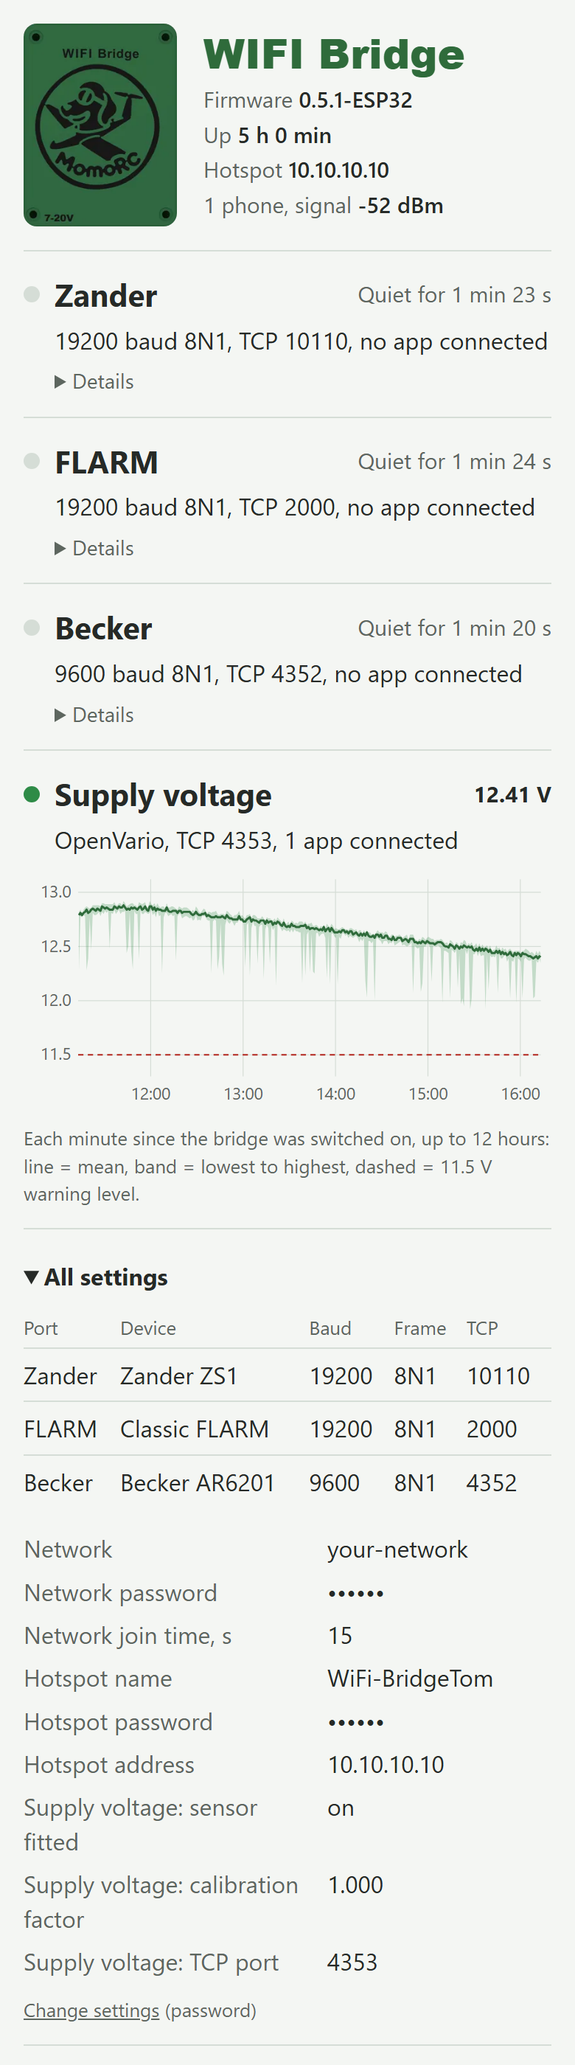
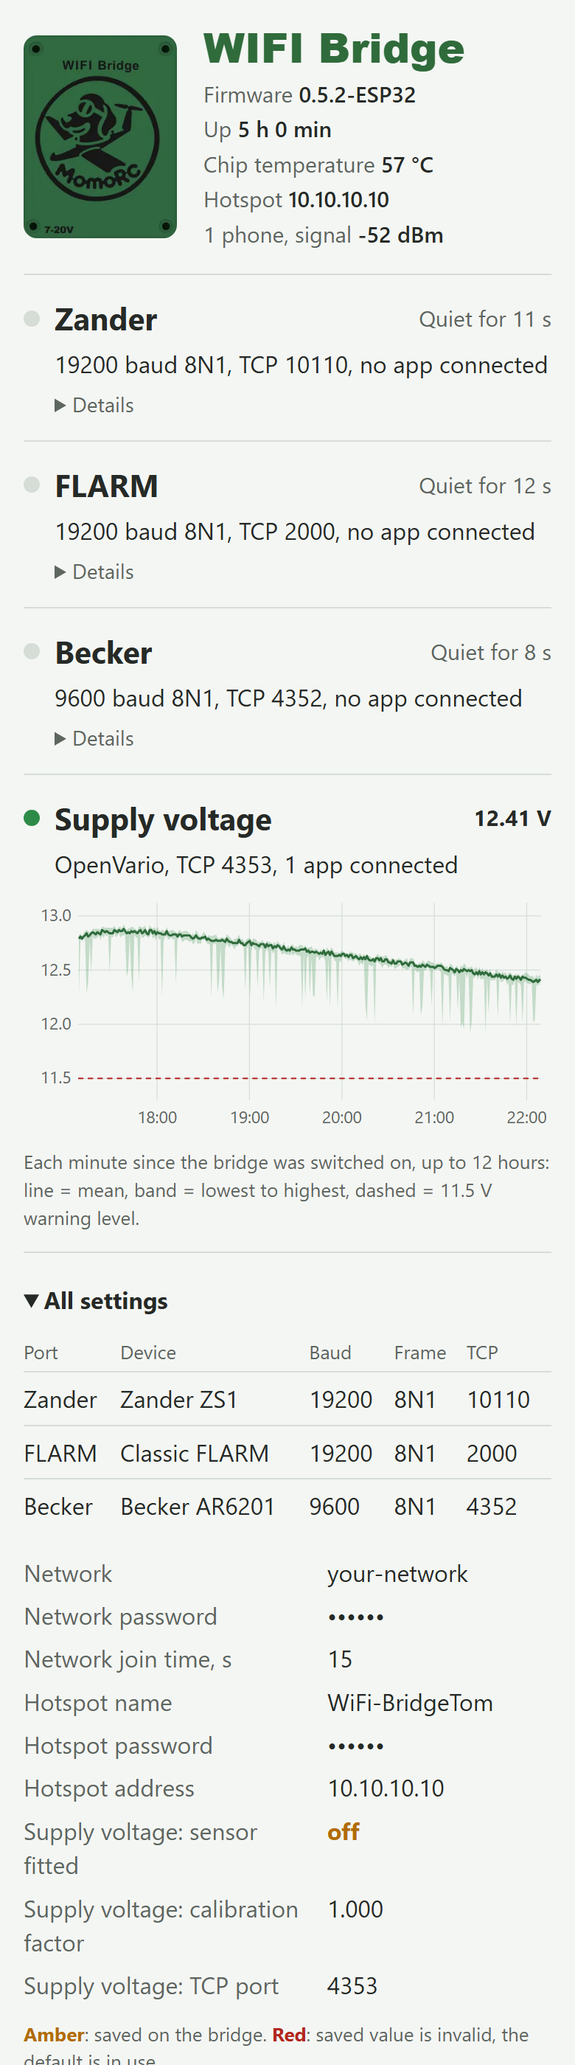
Show the ESP32 chip temperature on the status page and log (0.5.2)
Plan step 3e, approved by the owner. The status task reads the classic
ESP32's internal temperature sensor once per second and shows the mean
of the last 10 s on the status page header, in /api/status (chip_temp)
and in the web log. The log warns at 80 C for 60 s (provisional, to be
set from the heat check in open item 8) and reports Info below 75 C.
No shutdown: the bridge keeps forwarding at any temperature.

Docs: firmware README "Chip temperature" section, roadmap step 3e, heat
check bullet in open-items, sources S131 (Arduino-ESP32 core and ESP-IDF
evidence) and S132 (bench record). Screenshots regenerated with
tools/status_screenshot.py.

Verified: arduino-cli build OK (55 % flash, only the two known upstream
warnings); OTA upload to the standalone ESP32; readings 53-60 C on the
bench; log lines present; bridge_loop_test --radio-loop 4/4 pass.
Not tested: the wired bridge in the housing and the heat check itself.

diff --git a/firmware/bridge/chiptemp.h b/firmware/bridge/chiptemp.h
@@ -1,0 +1,102 @@
+// Project: ESP32 chip temperature (firmware plan step 3e). ESP32 only.
+//
+// Reads the internal temperature sensor once per second and shows the mean of the
+// last 10 s on the status page, in /api/status and in the web log. Nothing else
+// happens: a hot bridge keeps forwarding, because losing FLARM and radio data in
+// flight is worse than running warm.
+//
+// On the classic ESP32 the sensor is undocumented (S131). It measures the chip,
+// not the air in the housing, with an offset that differs from chip to chip, so the
+// value is a trend, not an air temperature. A chip whose sensor does not work
+// returns 128 (degrees Fahrenheit) at every read; that shows as "no reading".
+//
+// Runs in the status task (core 0, low priority), like the supply voltage.
+// Included by status_page.h after supply.h.
+
+#pragma once
+
+#ifdef CHIP_TEMP
+
+#include <cmath>
+
+extern "C" uint8_t temprature_sens_read();  // Arduino core (esp32-hal-misc.c): raw degrees Fahrenheit
+
+#define CHIP_TEMP_EVERY_MS 1000
+#define CHIP_TEMP_MEAN 10                 // readings in the shown mean
+#define CHIP_TEMP_STUCK 128               // the value of a sensor that does not work
+#define CHIP_TEMP_NO_READING_MS 30000UL   // no working reading this long after start: one log line
+
+static float chipTempC = NAN;       // mean of the last readings in degrees Celsius; NAN = no reading
+static bool chipTempWorks = false;  // a value other than CHIP_TEMP_STUCK seen since start
+
+// Called from the status task loop every few milliseconds.
+static void chipTempTick() {
+    static uint32_t at = 0, highSince = 0;
+    static uint8_t ring[CHIP_TEMP_MEAN], count = 0, head = 0;
+    static bool first = true, highLogged = false, noneLogged = false;
+    const uint32_t now = millis();
+    if (now - at < CHIP_TEMP_EVERY_MS) return;
+    at = now;
+
+    const uint8_t raw = temprature_sens_read();
+    const bool edge = raw == 0 || raw == 255;  // out of the sensor's range
+    if (!edge && raw != CHIP_TEMP_STUCK) chipTempWorks = true;
+    if (!chipTempWorks || edge) {
+        if (!chipTempWorks && !noneLogged && now >= CHIP_TEMP_NO_READING_MS) {
+            LOGI(LOG_SYSTEM, "Chip temperature: this ESP32's sensor gives no reading (raw %u)", raw);
+            noneLogged = true;
+        }
+        return;
+    }
+
+    ring[head] = raw;
+    head = (head + 1) % CHIP_TEMP_MEAN;
+    if (count < CHIP_TEMP_MEAN) count++;
+    uint16_t sum = 0;
+    for (uint8_t i = 0; i < count; i++) sum += ring[i];
+    const float c = (sum / (float)count - 32.0f) / 1.8f;
+    chipTempC = c;
+
+    if (first && count == CHIP_TEMP_MEAN) {
+        LOGI(LOG_SYSTEM, "Chip temperature %.0f \xC2\xB0" "C (ESP32 chip, approximate)", c);
+        first = false;
+    }
+    if (c >= CHIP_TEMP_WARN_C) {
+        if (highSince == 0) highSince = now | 1u;
+        if (!highLogged && now - highSince >= CHIP_TEMP_WARN_MS) {
+            LOGW(LOG_SYSTEM, "Chip temperature high: %.0f \xC2\xB0" "C for %lu s; the bridge keeps running", c,
+                 CHIP_TEMP_WARN_MS / 1000);
+            highLogged = true;
+        }
+    } else {
+        highSince = 0;
+        if (highLogged && c < CHIP_TEMP_OK_C) {
+            LOGI(LOG_SYSTEM, "Chip temperature back to %.0f \xC2\xB0" "C", c);
+            highLogged = false;
+        }
+    }
+}
+
+// Part of /api/status.
+static void chipTempJson(String& out) {
+    char b[64];
+    if (std::isnan(chipTempC)) snprintf(b, sizeof(b), ",\"chip_temp\":{\"celsius\":null,\"warn_c\":%d}", CHIP_TEMP_WARN_C);
+    else snprintf(b, sizeof(b), ",\"chip_temp\":{\"celsius\":%.1f,\"warn_c\":%d}", chipTempC, CHIP_TEMP_WARN_C);
+    out += b;
+}
+
+// For the Debug line every 60 s: "; chip 47 °C", or empty without a reading.
+static const char* chipTempText() {
+    static char b[24];
+    if (std::isnan(chipTempC)) b[0] = 0;
+    else snprintf(b, sizeof(b), "; chip %.0f \xC2\xB0" "C", chipTempC);
+    return b;
+}
+
+#else
+
+static inline void chipTempTick() {}
+static inline void chipTempJson(String&) {}
+static inline const char* chipTempText() { return ""; }
+
+#endif

diff --git a/firmware/bridge/config.h b/firmware/bridge/config.h
@@ -53,7 +53,7 @@
                              // incoming bytes while the loop waits on a UART write
 
 #ifdef ESP32
-#define VERSION "0.5.1-ESP32"     // Project: own version, 0.<plan step> until bench acceptance; 0.4.1 = device profiles (WP9), .2 = web log (step 3c), .3/.4 = log clock time; 0.5 = apps never hold up the bridge; 0.5.1 = supply voltage (step 3d)
+#define VERSION "0.5.2-ESP32"     // Project: own version, 0.<plan step> until bench acceptance; 0.4.1 = device profiles (WP9), .2 = web log (step 3c), .3/.4 = log clock time; 0.5 = apps never hold up the bridge; 0.5.1 = supply voltage (step 3d); 0.5.2 = chip temperature (step 3e)
 #elif defined(ESP8266)
 #define VERSION "0.3b.1-ESP8266"
 #endif
@@ -67,6 +67,7 @@
 #define STORED_SETTINGS        // Project: settings stored on the ESP32 override the defaults here (step 3a, ESP32 only)
 #define WEB_LOG                // Project: event log on /log, kept across a restart (step 3c, weblog.h, needs STATUS_PAGE, ESP32 only)
 #define SUPPLY_SENSE           // Project: supply voltage on GPIO34, OpenVario port and chart (step 3d, supply.h, needs STATUS_PAGE, ESP32 only)
+#define CHIP_TEMP              // Project: ESP32 chip temperature on the status page and in the log, no shutdown (step 3e, chiptemp.h, needs STATUS_PAGE, ESP32 only)
 #define PORT_NAMES {"Zander", "FLARM", "Becker"}  // Project: COM 0, 1, 2 on the status page
 #define PORT_PROFILES {"zs1", "flarm", "ar6201"}  // Project: default device profile per COM (settings.h); baud and frame must match UART_BAUDn and SERIAL_PARAMn
 //#define BLUETOOTH 0          // uncomment to create a bluetooth serial bridge on the indicated serial port (ESP32 only)
@@ -110,6 +111,10 @@
 #define SUPPLY_OK_V 12.0f           // and Info when it is back above this
 #define SUPPLY_LOW_MS 10000UL
 #define SUPPLY_HISTORY_MIN 720      // chart: one point per minute, 12 hours
+/*************************  Chip temperature (Project, step 3e) ******/
+#define CHIP_TEMP_WARN_C 80         // web log warning after CHIP_TEMP_WARN_MS at or above this (chip, not air; provisional)
+#define CHIP_TEMP_OK_C 75           // and Info when it is back below this
+#define CHIP_TEMP_WARN_MS 60000UL
 
 /**************************  DO NOT EDIT BELOW HERE **************************/
 // Project: build-time checks for the Wi-Fi mode and the radio port rules
@@ -131,6 +136,9 @@
 #endif
 #if defined(SUPPLY_SENSE) && !(defined(ESP32) && defined(STATUS_PAGE))
 #error "SUPPLY_SENSE needs STATUS_PAGE and an ESP32."
+#endif
+#if defined(CHIP_TEMP) && !(defined(ESP32) && defined(STATUS_PAGE))
+#error "CHIP_TEMP needs STATUS_PAGE and an ESP32."
 #endif
 #if defined(WEB_LOG) && defined(DEBUG)
 #error "DEBUG prints on UART0, which serves the Zander; WEB_LOG shows the same lines on /log."

diff --git a/firmware/bridge/status_page.h b/firmware/bridge/status_page.h
@@ -38,6 +38,7 @@ static const char* const kPortName[NUM_COM] = PORT_NAMES;
 static WebServer statusServer(80);
 
 #include "supply.h"  // Project: supply voltage, OpenVario port and chart (step 3d)
+#include "chiptemp.h"  // Project: ESP32 chip temperature (step 3e)
 
 // Status page; /device.webp is the housing lid photo from device_image.h.
 static const char kStatusPage[] = R"HTML(<!doctype html>
@@ -104,7 +105,8 @@ function build(ports){let h='';ports.forEach((p,n)=>{h+='<section id="d'+n+'"><d
 function f(){fetch('/api/status',{cache:'no-store'}).then(r=>r.json()).then(d=>{
 $('down').hidden=true;const w=d.wifi;
 const link=w.mode==='hotspot'?'<div>Hotspot <b>'+w.ip+'</b></div><div>'+(w.stations.length?w.stations.length+(w.stations.length>1?' phones, ':' phone, ')+'signal <b>'+w.stations.map(x=>x+' dBm').join(', ')+'</b>':'No phone connected')+'</div>':'<div>Network <b>'+w.ip+'</b></div><div>Signal <b>'+w.rssi_dbm+' dBm</b></div>';
-$('meta').innerHTML='<div>Firmware <b>'+esc(d.firmware.replace('Wi-Fi bridge ',''))+'</b></div><div>Up <b>'+dur(d.uptime_s)+'</b></div>'+link;
+const ct=d.chip_temp,chip=ct?'<div>Chip temperature <b'+(ct.celsius!==null&&ct.celsius>=ct.warn_c?' class="bad"':'')+'>'+(ct.celsius===null?'no reading':Math.round(ct.celsius)+' °C')+'</b></div>':'';
+$('meta').innerHTML='<div>Firmware <b>'+esc(d.firmware.replace('Wi-Fi bridge ',''))+'</b></div><div>Up <b>'+dur(d.uptime_s)+'</b></div>'+chip+link;
 if(!built)build(d.ports);
 d.ports.forEach((p,n)=>{const on=p.last_data_ms_ago!==null&&p.last_data_ms_ago<5000,moved=last[n]!==undefined&&last[n]!==p.bytes_from_device;last[n]=p.bytes_from_device;
 $('d'+n).className=(on?'on':'')+(moved?' pulse':'');$('s'+n).textContent=ago(p.last_data_ms_ago);
@@ -194,6 +196,7 @@ static String statusJson() {
     }
     out += "]";
     supplyStatusJson(out);  // Project: supply voltage (step 3d)
+    chipTempJson(out);      // Project: chip temperature (step 3e)
     out += "}";
     return out;
 }
@@ -311,6 +314,7 @@ static void statusTask(void*) {
         settingsTrialCheck();
         logTick();
         supplyTick();
+        chipTempTick();
         vTaskDelay(pdMS_TO_TICKS(5));
     }
 }

diff --git a/firmware/bridge/log_page.h b/firmware/bridge/log_page.h
@@ -74,11 +74,11 @@ static void logTick() {
     if (now - lastMemory >= LOG_MEMORY_MS) {
         lastMemory = now;
         if (WiFi.getMode() & WIFI_MODE_AP)
-            LOGD(LOG_SYSTEM, "Memory free %lu kB, lowest %lu kB; hotspot, %u phone(s)", (unsigned long)ESP.getFreeHeap() / 1024,
-                 (unsigned long)ESP.getMinFreeHeap() / 1024, WiFi.softAPgetStationNum());
+            LOGD(LOG_SYSTEM, "Memory free %lu kB, lowest %lu kB; hotspot, %u phone(s)%s", (unsigned long)ESP.getFreeHeap() / 1024,
+                 (unsigned long)ESP.getMinFreeHeap() / 1024, WiFi.softAPgetStationNum(), chipTempText());
         else
-            LOGD(LOG_SYSTEM, "Memory free %lu kB, lowest %lu kB; Wi-Fi signal %d dBm", (unsigned long)ESP.getFreeHeap() / 1024,
-                 (unsigned long)ESP.getMinFreeHeap() / 1024, (int)WiFi.RSSI());
+            LOGD(LOG_SYSTEM, "Memory free %lu kB, lowest %lu kB; Wi-Fi signal %d dBm%s", (unsigned long)ESP.getFreeHeap() / 1024,
+                 (unsigned long)ESP.getMinFreeHeap() / 1024, (int)WiFi.RSSI(), chipTempText());
     }
 }
 

diff --git a/firmware/bridge/README.md b/firmware/bridge/README.md
@@ -1,6 +1,6 @@
 # Bridge firmware
 
-Wi-Fi bridge firmware for Zander, FLARM and Becker, based on ESP-Serial-Bridge ([ADR-02](../../docs/design/architecture.md#adr-02)). The standalone ESP32 runs step 4 firmware with single-client radio ownership (S114) and the [web log](#web-log) (S116). Firmware 0.5.1 adds the [supply voltage](#supply-voltage) (step 3d). See the [firmware plan](../../docs/project/roadmap.md#firmware-plan) for the remaining wired checks.
+Wi-Fi bridge firmware for Zander, FLARM and Becker, based on ESP-Serial-Bridge ([ADR-02](../../docs/design/architecture.md#adr-02)). The standalone ESP32 runs step 4 firmware with single-client radio ownership (S114) and the [web log](#web-log) (S116). Firmware 0.5.1 adds the [supply voltage](#supply-voltage) (step 3d), 0.5.2 the [chip temperature](#chip-temperature) (step 3e). See the [firmware plan](../../docs/project/roadmap.md#firmware-plan) for the remaining wired checks.
 
 ## Origin and license
 
@@ -41,6 +41,7 @@ Set in `config.h`; everything else is upstream.
 | Stored settings | `STORED_SETTINGS`: baud rates, frames, TCP ports, the network and the hotspot in this file are defaults; valid values saved on the [settings page](#settings-page) override them in `MODE_STA_AP`. An invalid stored value falls back to its default |
 | Status page | `STATUS_PAGE`: read-only page on port 80 and `/api/status` as JSON, open to everyone on the bridge's Wi-Fi; see below |
 | Supply voltage | `SUPPLY_SENSE`: 12 V input on GPIO34, OpenVario port 4353 and chart; pin, divider, port and warning levels under *Supply voltage* in `config.h`; see [below](#supply-voltage) |
+| Chip temperature | `CHIP_TEMP`: the ESP32's own temperature on the status page and in the web log, no shutdown; warning levels under *Chip temperature* in `config.h`; see [below](#chip-temperature) |
 
 <a id="status-page"></a>
 
@@ -52,7 +53,7 @@ Open `http://<bridge address>/` (10.10.10.10 in hotspot mode) in a browser. [`st
 
 | Part | Shows |
 | --- | --- |
-| Header | Photo of the housing lid ([`device_image.h`](device_image.h), made by `tools/device_image.py`), firmware version, uptime, Wi-Fi: network address and the bridge's signal to the router, or hotspot address and the signal of each connected phone (no device addresses) |
+| Header | Photo of the housing lid ([`device_image.h`](device_image.h), made by `tools/device_image.py`), firmware version, uptime, [chip temperature](#chip-temperature), Wi-Fi: network address and the bridge's signal to the router, or hotspot address and the signal of each connected phone (no device addresses) |
 | Device row | Live dot (green while data arrives, pulses on new bytes), state (receiving, quiet for how long, no data yet), baud rate and frame, TCP port, connected apps; receive errors and short writes in red when not zero |
 | Details (collapsed) | Bytes from and to the device since start, receive errors (buffer full, FIFO overflow, framing, parity, break), short writes (data an app could not take: skipped for a Zander or FLARM app, session closed on the radio port); link to the [data monitor](#data-monitor) |
 | Supply voltage | Value of the last second, OpenVario port and connected apps, and the [chart](#supply-voltage) |
@@ -62,7 +63,7 @@ Open `http://<bridge address>/` (10.10.10.10 in hotspot mode) in a browser. [`st
 | --- | --- |
 | `/` | The page, about 7.4 kB |
 | `/device.webp` | Lid photo, 5.3 kB, cached for a day |
-| `/api/status` | Live counters and the supply voltage as JSON |
+| `/api/status` | Live counters, the supply voltage and the chip temperature as JSON |
 | `/api/settings` | Active settings, their defaults and source (`default`, `changed`, `invalid`), the trial state and the device profiles with the presets that fit each port, as JSON |
 | `/monitor`, `/api/monitor` | [Data monitor](#data-monitor) |
 | `/log`, `/api/log` | [Web log](#web-log) |
@@ -160,6 +161,22 @@ The bridge measures its 12 V input through the [divider](../../docs/hardware/pow
 `GET /api/supply` returns `points`, the full minutes oldest first as `[lowest, mean, highest]` in hundredths of a volt (`null` = no reading that minute), `current` for the minute still running, and `age_s`, the seconds since the newest full minute ended.
 
 Bench check: `python tools/supply_test.py <bridge address>` checks the status block, the sentences and their checksum, that data from an app is dropped without closing it, and the chart data. With the sensor switched off: `--expect-off`. Accuracy against a multimeter: [bring-up step 13](../../docs/hardware/wiring.md#bring-up).
+
+<a id="chip-temperature"></a>
+
+## Chip temperature
+
+The ESP32 reads its own internal temperature sensor ([plan](../../docs/project/roadmap.md#firmware-plan), step 3e). [`chiptemp.h`](chiptemp.h) runs in the status task; the forwarding loop is not touched.
+
+| Part | How it works |
+| --- | --- |
+| What it measures | The ESP32 chip, not the air in the housing. On the classic ESP32 the sensor is undocumented, with no specified accuracy (S131); offsets are reported to differ from chip to chip. Read it as a trend |
+| Reading | Once per second, shown as the mean of the last 10 s |
+| Status page | Header line *Chip temperature*, red at or above the warning level; *no reading* when the chip's sensor does not work (it then returns 128 °F at every read) |
+| `/api/status` | `chip_temp`: `celsius` (one decimal, `null` = no reading) and `warn_c` |
+| Web log | Source System: the first reading after start; a warning after 60 s at or above 80 °C; Info when it is back below 75 °C. The Debug memory line every 60 s ends with the chip temperature. Without a working sensor, one Info line 30 s after start |
+| No shutdown | The bridge keeps forwarding at any temperature. Losing FLARM and radio data in flight is worse than running warm |
+| Warning level | 80 °C is provisional. Set it from the [heat check](../../docs/project/open-items.md#housing), where the chip reading is logged next to the measured temperatures |
 
 ## Build
 

diff --git a/docs/research/sources.md b/docs/research/sources.md
@@ -158,6 +158,8 @@ New evidence records the revision or page, the date, what was checked and its la
 | S128 | Fusion `Housing body - Wire Generator harness` v6, 2026-11-18. [Standalone archive](../../cad/housing/housing-body-v1/housing-enclosure-fit.f3d) and [route data](../../cad/housing/housing-body-v1/routing-study.json) | Before editing: cloud v5 matched S102; the open document had unsaved changes, which the owner chose to discard, so v5 was reopened unmodified. Added the [supply voltage sense](../hardware/power.md#voltage-sense) as native 3D paths and circular sweeps, built by Claude through the Fusion MCP server. Harness component: grey wire R-V1 → ESP32 J2-5, Ø1.0 mm, 66.0 mm centreline, along the side wall at Y 16.8, Z −26.5, down to the J2-5 pin top at X 63.83. *Trial Signals and resistors*: R-V1 Ø1.6 × 3.6 mm above the red lead at the XT30 + cup with Ø0.5 mm leads (7.2 mm); R-V2 Ø1.6 × 3.6 mm at pin-top height and C-V as a Ø2.0 × 3.8 mm envelope (estimate) 2.2 mm lower, both at Z −25.2 beside the J2 header, with lead loops J2-5 → J2-14 of 25.4 and 29.0 mm. Corner radii 1.0 mm (wire) and 0.6 mm (leads). Highest point Y 17.3 (hood underside Y 20, pin-top limit Y 18). Compute All passed (51.8 s); all 28 new timeline items healthy; the remaining non-healthy items are the earlier groups, the inherited Position19/Position20 warnings, rolled-back and suppressed items. All 520 earlier bodies keep volume and bounds and all 74 placements match v5. Temporary Boolean intersections of each new body with every body its box touches: only intended contacts (XT30 + cup with the red lead, splice of the grey wire onto the R-V1 lead, leads through their own bodies, shared lead ends, solder contact at the J2-5 and J2-14 pins, and the GND-J wire and joint allowance at J2-14); tray and hood clear. Saved as v6, cloud upload complete, then exported. The archive was not reopened. Installation pictures not retaken. Physical fit, lead insulation and bends are bench checks. |
 | S129 | Fusion `Housing body - Wire Generator harness` v7, 2026-11-18. [Standalone archive](../../cad/housing/housing-body-v1/housing-enclosure-fit.f3d) and [installation picture 08](../images/wire-installation/08-supply-sense.png) | Seven combined conductors (UBEC output + and GND, J2-1 → mod2 R3, mod2 R3 → mod1 R3, mod2 R4 → mod1 R4, mod1 R2 → J2-7, mod2 R2 → J2-10) showed Steel - Satin on body and faces in v5 and v6 alike, as after the colour reset noted in S91. Their body appearances were set to the route-data colours (orange, black, pink, pink, black, light blue, mint) and the steel face overrides cleared; no timeline item added, geometry unchanged. Saved as v7, cloud upload complete, archive re-exported, not reopened. Picture 08: top view, orthographic, ESP32 assembly shown for the capture only, callouts drawn on the render; the document was closed without saving afterwards and v7 reopened unmodified. A later Compute All may reset these colours again. |
 | S130 | Owner's choice of C-V, 2026-11-18: yellow ceramic disc marked 104 (100 nF), from a photo of the part next to a WIMA 0.1 µF 63 V film capacitor. Fusion `Housing body - Wire Generator harness` v8; [standalone archive](../../cad/housing/housing-body-v1/housing-enclosure-fit.f3d), [installation picture 08](../images/wire-installation/08-supply-sense.png) | The eight v6 C-V timeline items were deleted and rebuilt. Body: Ø5.0 × 3.0 mm disc envelope (estimate from the photo, not measured), flat against the side wall at X 50.3, Y 11.4, Z −25.7, between the header body (top Y 8.64) and the R-V2 lead; wall gap 0.3 mm. Leads Ø0.5 mm at 2.54 mm pitch, up to Y 14.4 on the wall side (Z −26.6) to clear the R-V2 body, then in to the pin tops: 15.9 mm to J2-5, 11.4 mm to J2-14. Temporary Boolean intersections: only the leads entering the disc and the intended joints at J2-5 and J2-14. All 525 other bodies and 74 placements match v7; all timeline items from 653 healthy. Compute All was not run, because it resets the conductor colours (S129). Saved as v8, cloud upload complete, archive re-exported, not reopened. Picture 08 retaken the same way as in S129. |
+| S131 | Arduino-ESP32 3.3.12 `cores/esp32/esp32-hal-misc.c`, `temperatureRead()`; ESP-IDF 5.5 `soc_caps.h` for ESP32 and ESP32-S3, as installed with the core | Checked 2026-11-18. For the classic ESP32 the core marks the sensor "Undocumented" and returns `(temprature_sens_read() - 32) / 1.8` from a raw byte in degrees Fahrenheit. The ESP32 `soc_caps.h` has no `SOC_TEMP_SENSOR_SUPPORTED`, so the IDF temperature sensor driver does not cover it; the ESP32-S3 file sets it. The value is the chip's own temperature. No accuracy or offset is specified for the classic ESP32; the chip-to-chip offset and the stuck value 128 are community reports, not Espressif statements. |
+| S132 | [Bridge firmware](../../firmware/bridge/README.md#chip-temperature) 0.5.2, chip temperature (WP6 step 3e), 2026-11-18. Standalone ESP32 in network mode, USB power, on the bench indoors; step 2 jumpers fitted, supply sensor off | Measured by Claude on the bench board. Build: arduino-cli 1.6.0, core 3.3.12, 350 s, 1,084,699 bytes (55 %), global variables 105,748 bytes (32 %); only the two upstream `available()` deprecation warnings. OTA upload passed. This chip's sensor works: the first single reading after start was 73.3 °C, then the 10 s mean stayed between 53 and 60 °C over a minute, so the bench board reads well above room air (room temperature not measured). Web log: Info "Chip temperature 55 °C" and the Debug memory line with the chip value. `tools/bridge_loop_test.py --radio-loop`: 4 of 4 pass. New screenshots. Not tested: the high-temperature warning and its recovery line, a chip without a working sensor, any effect on the supply voltage ADC reading with a real voltage, the reading in a heated housing. |
 
 ---
 

diff --git a/docs/project/roadmap.md b/docs/project/roadmap.md
@@ -7,7 +7,7 @@
 The single work queue: which work package comes next and what finishes it.
 
 > [!NOTE]
-> **Status:** WP3 continues with wiring and bench validation. In the [bridge firmware plan](#firmware-plan) (WP6), steps 1–3b are done and step 4 firmware is on the standalone ESP32. Step 3c, a web log, is done on the standalone ESP32. Step 3d, the [supply voltage](#supply-voltage) with its chart, is in firmware 0.5.1 on the standalone ESP32 (S123); the checks with a real voltage and OpenSoar remain. The wired checks for steps 4 and 5 remain. The software part of the device profiles (WP9) is brought forward and runs on the standalone ESP32. The driver packages (WP4, WP5) wait until WP3 is complete. Work outside the approved plan needs the owner's approval.
+> **Status:** WP3 continues with wiring and bench validation. In the [bridge firmware plan](#firmware-plan) (WP6), steps 1–3b are done and step 4 firmware is on the standalone ESP32. Step 3c, a web log, is done on the standalone ESP32. Step 3d, the [supply voltage](#supply-voltage) with its chart, is in firmware 0.5.1 on the standalone ESP32 (S123); the checks with a real voltage and OpenSoar remain. Step 3e shows the ESP32's [chip temperature](../../firmware/bridge/README.md#chip-temperature), firmware 0.5.2. The wired checks for steps 4 and 5 remain. The software part of the device profiles (WP9) is brought forward and runs on the standalone ESP32. The driver packages (WP4, WP5) wait until WP3 is complete. Work outside the approved plan needs the owner's approval.
 
 📑 **On this page:** <kbd>[1 · 📦 Work packages](#work-packages)</kbd> <kbd>[2 · 💻 Bridge firmware plan](#firmware-plan)</kbd> <kbd>[3 · 🏁 Milestones](#milestones)</kbd> <kbd>[4 · ✅ Test coverage for the software phase](#test-coverage)</kbd>
 
@@ -120,6 +120,7 @@ Each step: build, upload over Wi-Fi, check, update the owning pages, commit.
 | 3b | ✅ **Data monitor.** Live view of the bytes from and to each device on its own page `/monitor`, [design](#data-monitor) | Bench ESP32, phone, PC | Looped test data appears on the monitor in the right port and direction, NMEA as readable lines and radio bytes as hex; Pause and Download work; the loop test passes with the monitor open; nothing is collected while no one watches. Done (S112): byte-exact with the monitor open. Pause and Download still to try on a phone |
 | 3c | ✅ **Web log.** Event log page `/log` with level and source filters, Copy and Save, kept across a restart, [design](#web-log) | Bench ESP32, phone, PC | Start-up, Wi-Fi, app, radio and settings events appear with the right level and source; the filters, Copy and Save work on the phone; lines from before a restart stay readable with the reset reason; the loop test passes with the log open; nothing reaches a UART. Done (S116–S118); Copy and Save still to try on a phone |
 | 3d | **Supply voltage.** Measure the 12 V input and send it to OpenSoar on its own port, with a chart, [design](#supply-voltage). Firmware 0.5.1: settings, sensor-off behaviour, restart and loop test checked without a divider (S123) | Standalone ESP32 with the divider on a breadboard, bench supply, multimeter, phone with OpenSoar | Readings match the meter at 7, 12, 14.6 and 20 V within about ±0.1 V after calibration (error table recorded); OpenSoar's OpenVario device on port 4353 shows the voltage; the chart shows the minutes since start and survives a restart; with the sensor switched off nothing is sent; calibration survives a restart and an OTA update; the loop test passes with the voltage port connected; new page screenshots |
+| 3e | **Chip temperature.** Show the ESP32's own temperature on the status page and in the web log; no shutdown, [firmware](../../firmware/bridge/README.md#chip-temperature). Firmware 0.5.2: reading, log lines and loop test checked on the standalone ESP32 (S132) | Standalone ESP32, phone; wired bridge for the heat check | The page and `/api/status` show a value or *no reading*; the log has the first reading; the loop test passes; new page screenshots. In the [heat check](open-items.md#housing) the chip reading is logged next to the measured temperatures and the warning level is set from it |
 | 4 | **Radio port.** Single owner with dead-owner check, counted writes. Standalone TCP ownership, clean close and byte-exact loopback checked (S114) | Wired bench bridge; [bus-level test](../hardware/wiring.md#bus-test): DE-9 breakout with the radio loop, USB RS-232 adapter; serial-feed mode in the test script | Through the radio loop every byte value, bursts and split writes return unchanged; the Zander and FLARM inputs pass the RS-232 feed; nothing arrives after a restart; a second client is refused; after the owner's Wi-Fi is cut, a new client gets the radio port within 45 s; navigation data keeps flowing |
 | 5 | **Bench acceptance.** One PC test script for the [bridge tests](#test-coverage): slow and vanishing clients, including a second phone that stays connected with its screen off or OpenSoar in the background; Wi-Fi loss and return; one-hour run on all three ports. With OpenSoar on the phone: bridge power cycle in network and hotspot mode, and a run with mobile data on | Finished bench bridge, phone with OpenSoar | No byte errors; a client that stops reading does not delay data on the other clients or ports, a slow app keeps its connection ([slow apps](#firmware-plan), firmware 0.5); after each power cycle OpenSoar gets data on all three ports again without a manual reconnect; with mobile data on, all three ports connect and stay connected; results recorded; bridge part of M4 |
 

diff --git a/docs/project/open-items.md b/docs/project/open-items.md
@@ -59,7 +59,7 @@ Checks on the [housing v16 bench prototype](../hardware/housing.md) as built, an
 
 - [ ] At the proposed spot, log air temperature and relative humidity through damp nights, thaw and a sunny closed-canopy stop. Record cover and canopy position. With the bridge unpowered, compare a board or connector surface temperature with the local dew point. Look for droplets, tide marks and corrosion inside the hood and at both plugs. A dry afternoon inspection can miss overnight dew.
 - [ ] Read both RS-232 chip markings and the MAX490 suffix. Check operating and storage limits for the delivered boards, UBEC and actual filament. Record any missing limit and the margin available at the coldest intended start and hottest operating condition.
-- [ ] On the bench, reproduce the hot mounting-site air temperature and orientation after an unpowered soak. Run the fully wired bridge on its normal supply with sustained Wi-Fi and representative serial traffic. Log input volts and amps, air beside the box and RS-232 boards, and surface temperatures at the ESP32 regulator, UBEC and loaded PETG clamp until stable. Check for resets, serial errors and loss of retention after cooling.
+- [ ] On the bench, reproduce the hot mounting-site air temperature and orientation after an unpowered soak. Run the fully wired bridge on its normal supply with sustained Wi-Fi and representative serial traffic. Log input volts and amps, air beside the box and RS-232 boards, surface temperatures at the ESP32 regulator, UBEC and loaded PETG clamp, and the bridge's [chip temperature](../../firmware/bridge/README.md#chip-temperature), until stable. Set the chip temperature warning level from this run. Check for resets, serial errors and loss of retention after cooling.
 - [ ] If considering a solid hood, repeat with the slots temporarily blanked on the dry bench, at the same ambient, load and clearances. Compare each temperature rise above local ambient. Stop before an applicable limit. Advance the preferred configuration only with dry boards and connectors, temperature margin and retained fit. Resolve any water path, unknown critical rating or loss of margin before installation.
 
 ### 2.2 Manufacturing and print rules
